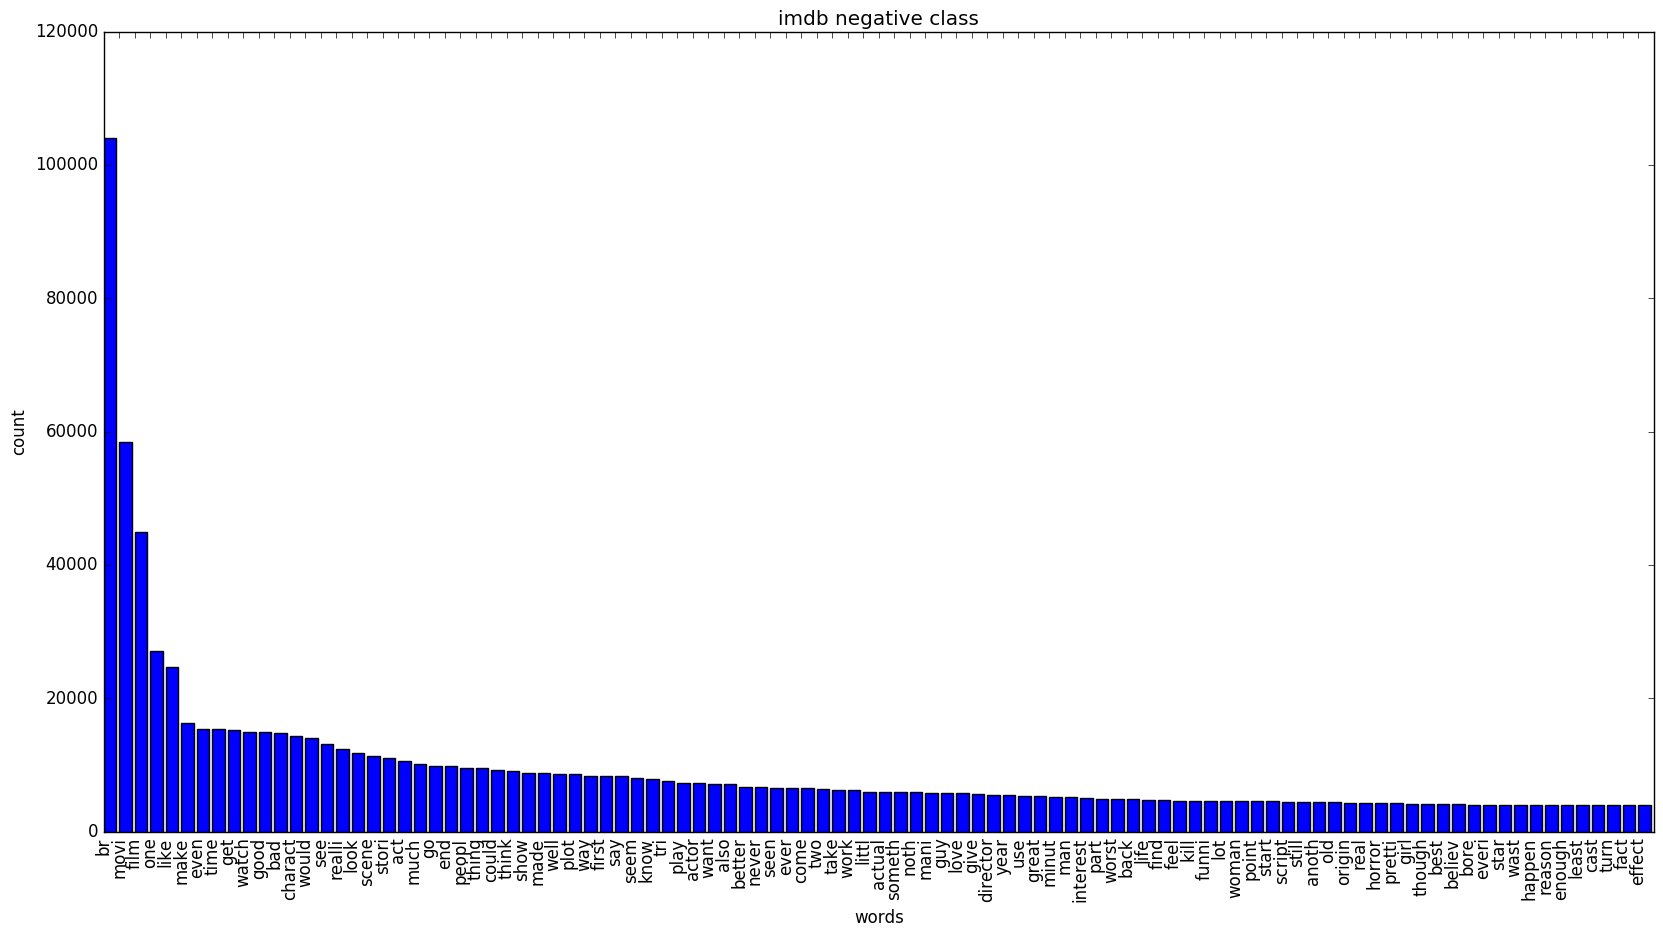
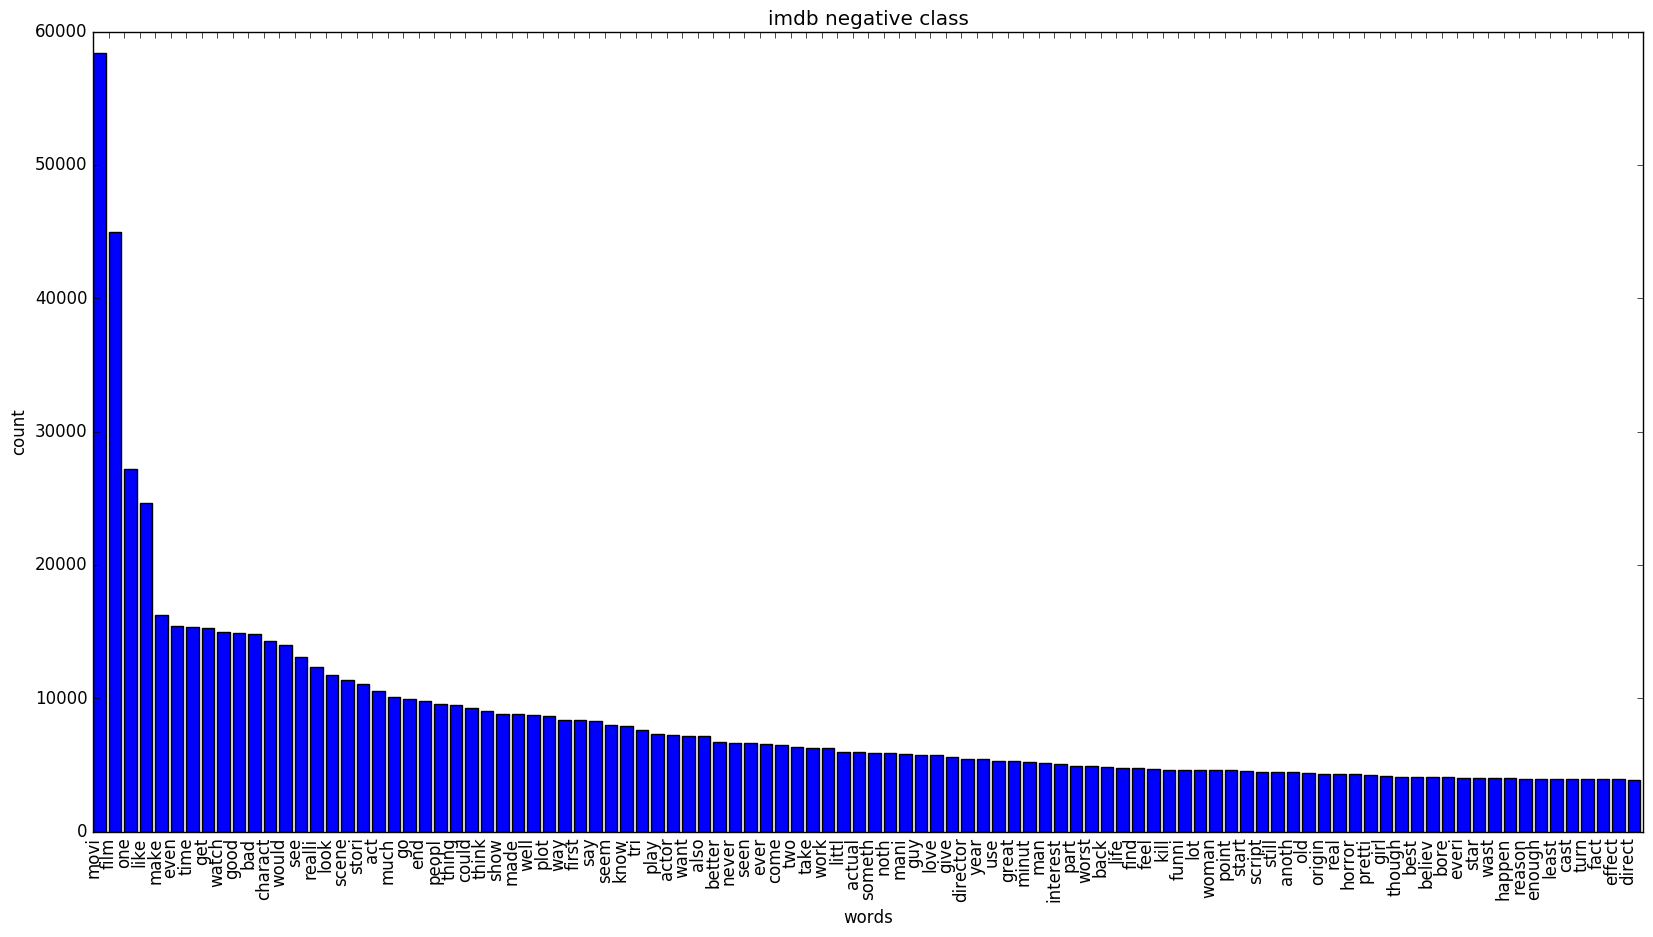
better analysis

Changed region(s): [[0.0309, 0.0309, 1.0, 0.9904], [0.4628, 0.0, 0.5862, 0.0309]]

diff --git a/text_handler/dataset.py b/text_handler/dataset.py
@@ -75,10 +75,11 @@ class Dataset(object):
                 tokens =  tokens + w + " "
             tokens = tokens.lower()
             tokens = tokenizer.tokenize(tokens)
-            tokens = [word for word in tokens if word.isalpha()] #remove non alphabetic tokens
+            tokens = [word for word in tokens if word.isalpha() and (word!="br")] #remove non alphabetic tokens
             tokens = [w for w in tokens if not w in self.stop_words]
             tokens = [stem.stem(w) for w in tokens]
             tokens = [lem.lemmatize(w) for w in tokens]
+            tokens = [w for w in tokens if not (w=="br")]
             self.vocabulary.update(tokens)
             clean_texts.append(tokens)
         self.train_data = clean_texts
@@ -90,7 +91,7 @@ class Dataset(object):
                 tokens = tokens + w + " "
             tokens = tokens.lower()
             tokens = tokenizer.tokenize(tokens)
-            tokens = [word for word in tokens if word.isalpha()]
+            tokens = [word for word in tokens if word.isalpha() and (word!="br")]
             tokens = [w for w in tokens if not w in self.stop_words]
             tokens = [stem.stem(w) for w in tokens]
             tokens = [lem.lemmatize(w) for w in tokens]
